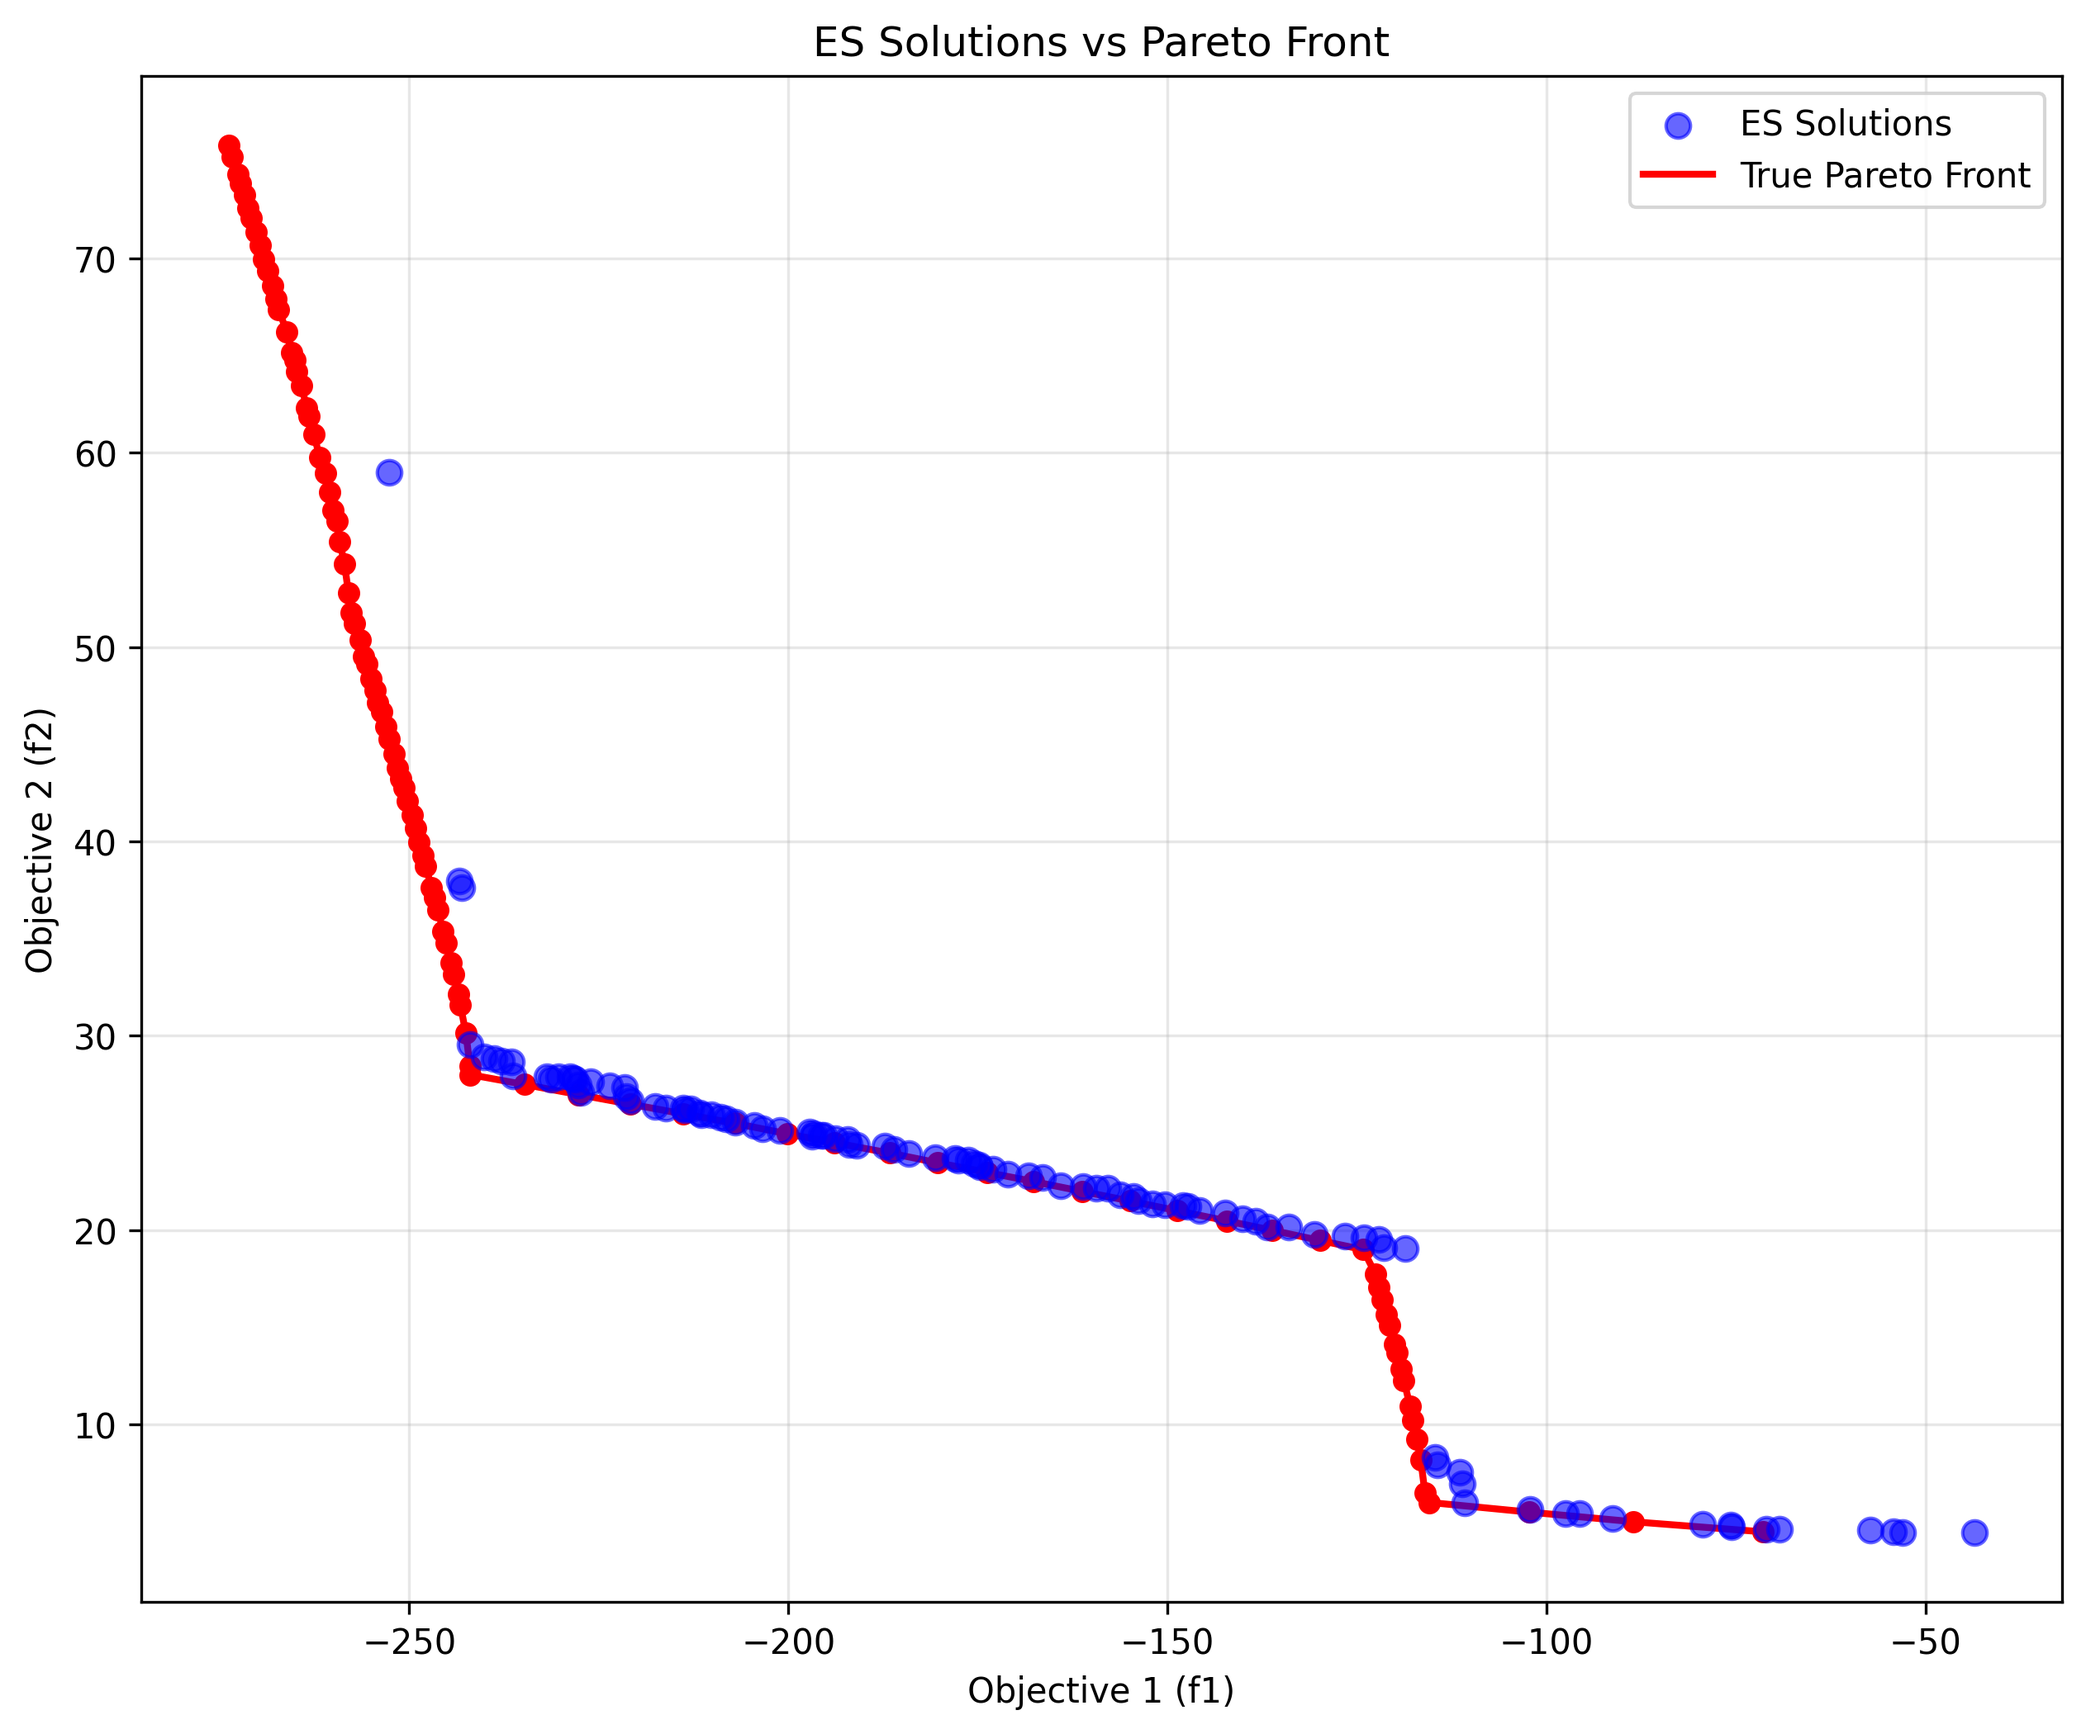
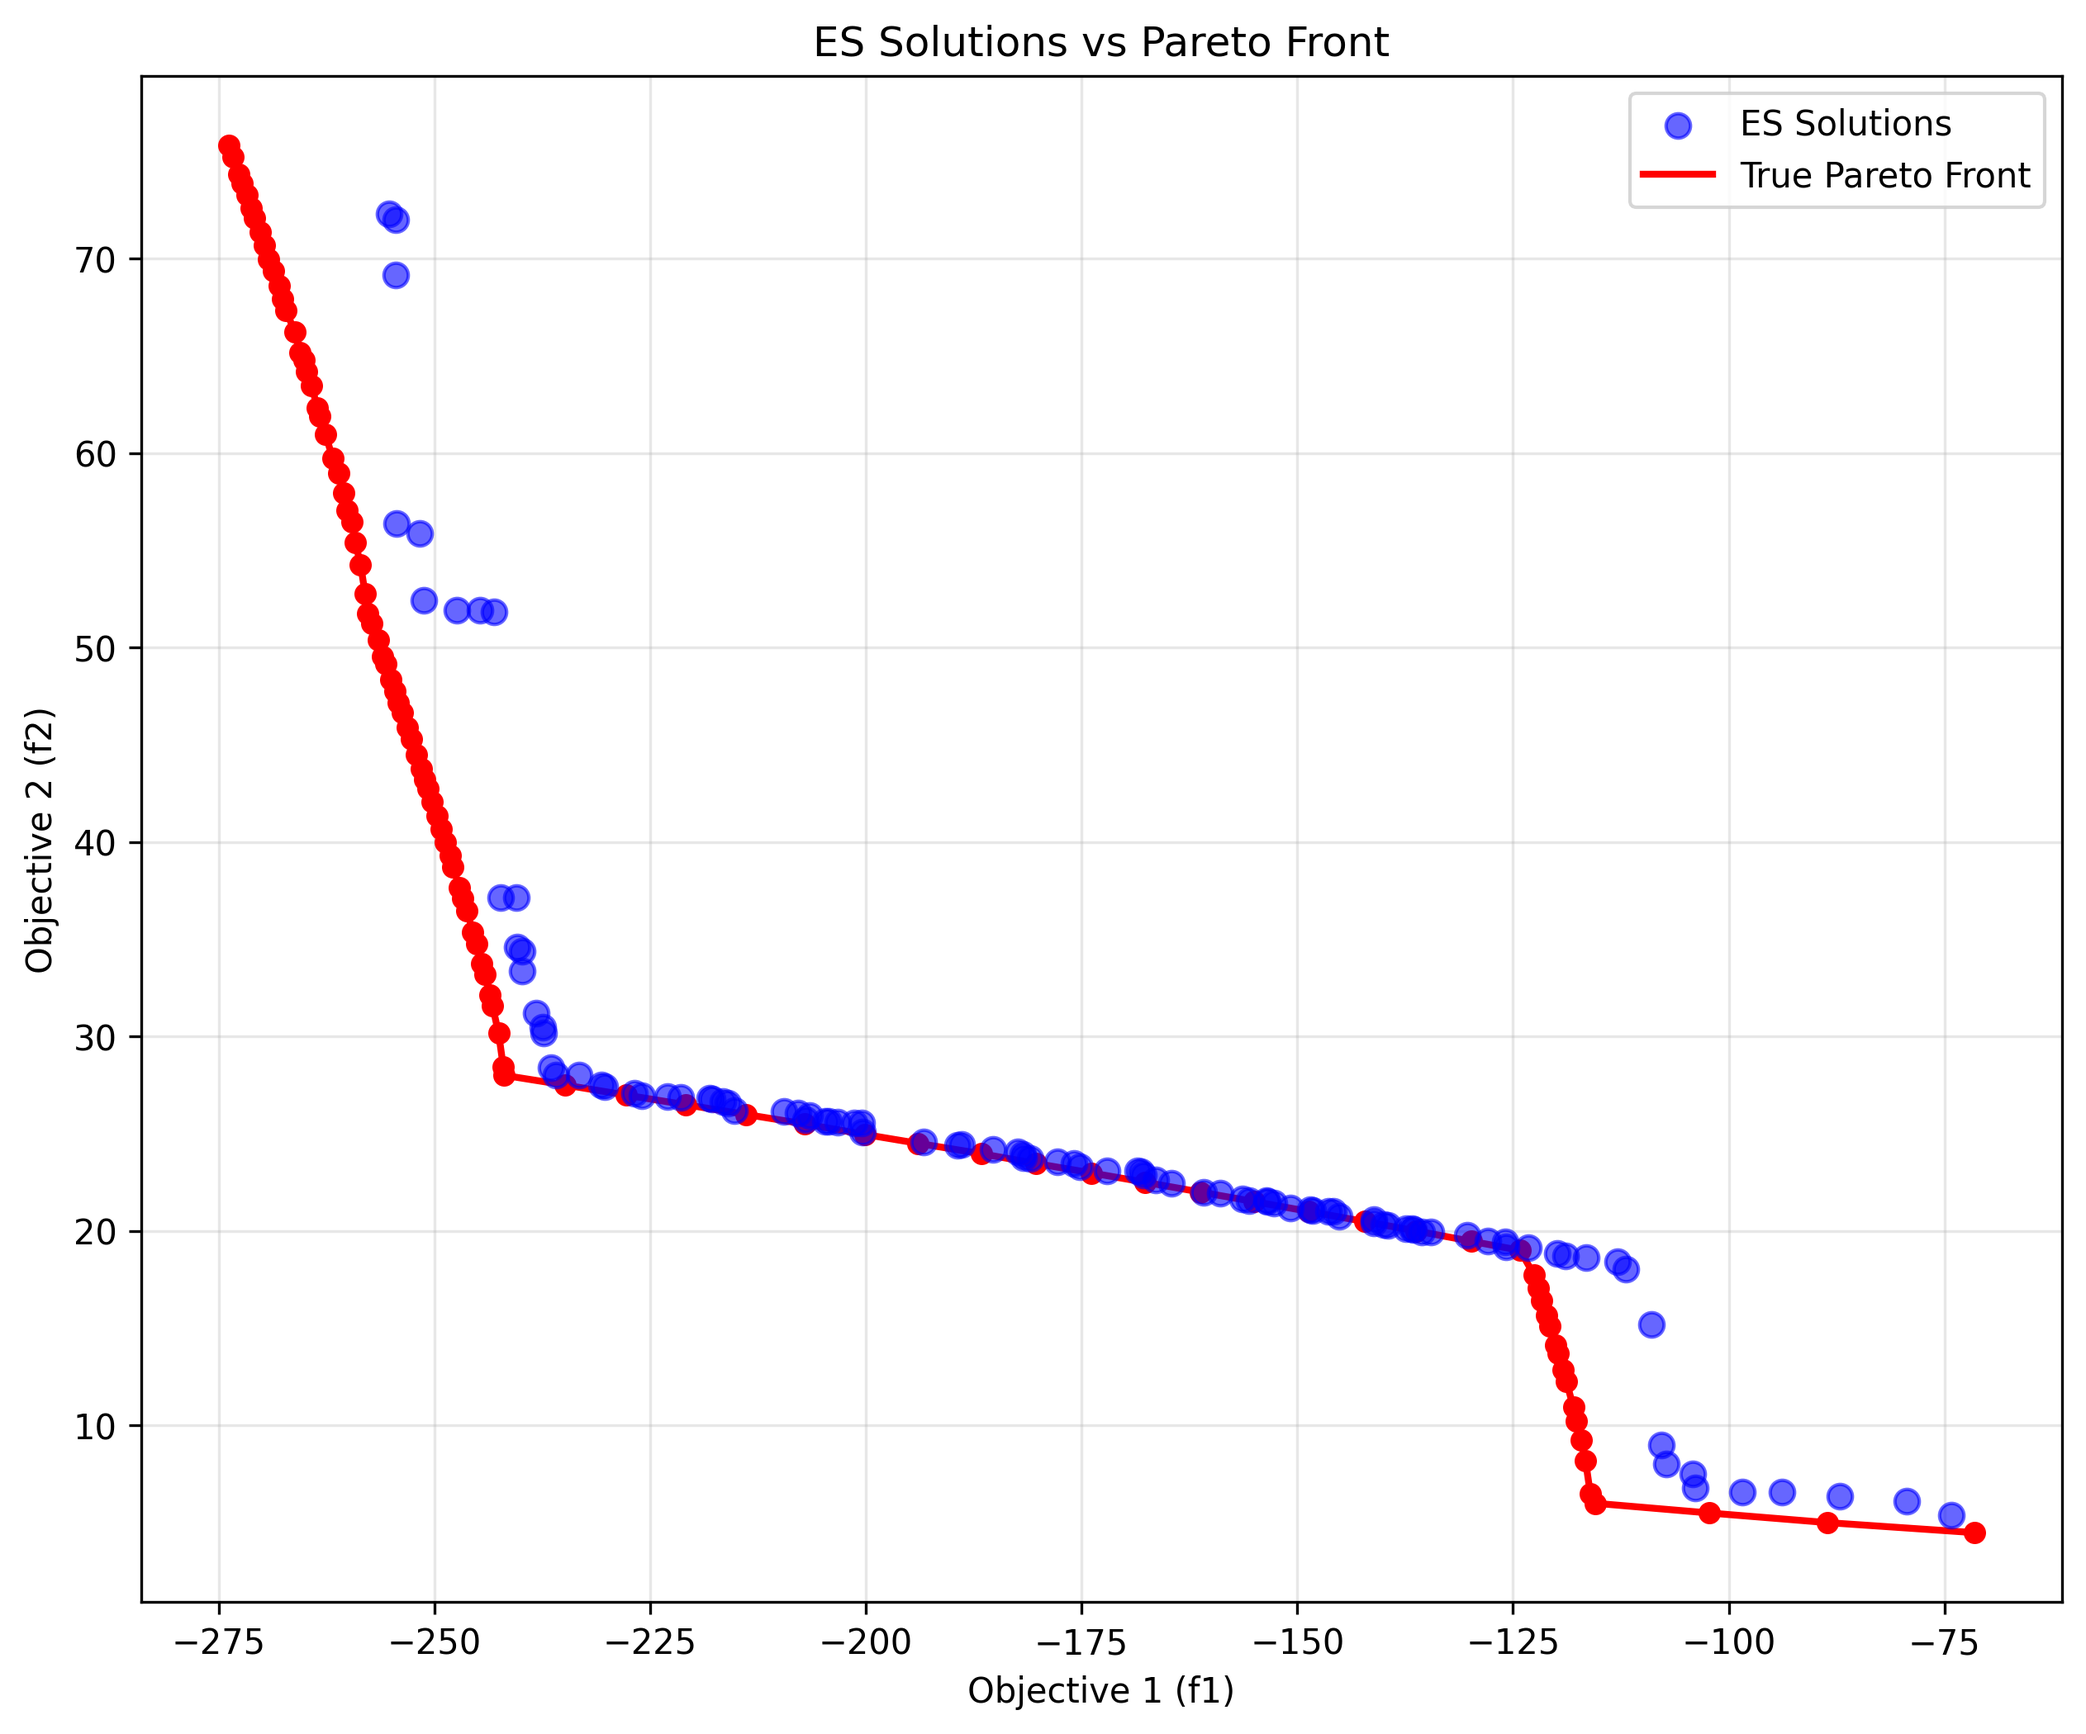
es

diff --git a/evolutionary_strategies.py b/evolutionary_strategies.py
@@ -4,7 +4,7 @@ from eva_core import evaluate, dominates, print_progress, filter_feasible_soluti
 
 def evolutionary_strategies(problem, pop_size=100, generations=300, verbose=False):
     """
-    Simple Evolutionary Strategies (μ+λ) with adaptive operators
+    Optimized Evolutionary Strategies (μ+λ) with adaptive operators
     
     Args:
         problem: Problem instance from pymoo
@@ -20,88 +20,158 @@ def evolutionary_strategies(problem, pop_size=100, generations=300, verbose=Fals
     mu = pop_size  # Parent population size
     lambda_size = pop_size  # Offspring population size
     
-    # Initialize population with strategy parameters (sigma for each variable)
-    population = []
-    sigma_pop = []
+    # Vectorized initialization
+    population = np.random.uniform(problem.xl, problem.xu, (mu, problem.n_var))
     
-    for n in range(mu):
-        # Individual
-        individual = np.random.uniform(problem.xl, problem.xu, problem.n_var)
-        population.append(individual)
-        
-        # Strategy parameters (mutation strengths) - one per variable
-        sigma = np.full(problem.n_var, 0.1 * (problem.xu - problem.xl))
-        sigma_pop.append(sigma)
+    # Initialize strategy parameters (sigma for each variable) - vectorized
+    sigma_range = 0.1 * (problem.xu - problem.xl)
+    sigma_pop = np.tile(sigma_range, (mu, 1))
     
-    # Evaluate initial population
-    fitness_pop = []
-    for i in range(mu):
-        fit = evaluate(problem, population[i])
-        fitness_pop.append(fit)
+    # Evaluate initial population - batch if possible
+    fitness_pop = [evaluate(problem, individual) for individual in population]
     
-    # Adaptive parameters
+    # Pre-compute adaptive parameters
     tau = 1.0 / np.sqrt(2 * np.sqrt(problem.n_var))  # Global learning rate
     tau_prime = 1.0 / np.sqrt(2 * problem.n_var)     # Local learning rate
+    search_center = (problem.xl + problem.xu) / 2
+    center_bias = 0.1
+    sigma_min = 1e-6 * (problem.xu - problem.xl)
     
     # Evolution loop
     for g in range(generations):
-        offspring = []
-        offspring_sigma = []
-        offspring_fitness = []
+        # Vectorized parent selection
+        parent_indices = np.random.randint(mu, size=lambda_size)
+        parents = population[parent_indices]
+        parent_sigmas = sigma_pop[parent_indices]
         
-        # Generate offspring
-        for _ in range(lambda_size):
-            # Select random parent
-            parent_idx = np.random.randint(mu)
-            parent = population[parent_idx].copy()
-            parent_sigma = sigma_pop[parent_idx].copy()
-            
-            # Adapt strategy parameters first (self-adaptation)
-            global_factor = np.exp(tau * np.random.normal())
-            local_factors = np.exp(tau_prime * np.random.normal(size=problem.n_var))
-            
-            # Update sigma with minimum threshold
-            new_sigma = parent_sigma * global_factor * local_factors
-            new_sigma = np.maximum(new_sigma, 1e-6 * (problem.xu - problem.xl))
-            
-            # Biased mutation - bias towards center of search space
-            center_bias = 0.1  # Bias strength
-            search_center = (problem.xl + problem.xu) / 2
-            bias_vector = center_bias * (search_center - parent) / (problem.xu - problem.xl)
-            
-            # Apply mutation with bias
-            mutation = np.random.normal(0, 1, problem.n_var) * new_sigma
-            offspring_individual = parent + mutation + bias_vector
-            
-            # Ensure bounds
-            offspring_individual = clip_to_bounds(offspring_individual, problem)
-            
-            # Evaluate offspring
-            offspring_fit = evaluate(problem, offspring_individual)
-            
-            offspring.append(offspring_individual)
-            offspring_sigma.append(new_sigma)
-            offspring_fitness.append(offspring_fit)
+        # Vectorized self-adaptation
+        global_factors = np.exp(tau * np.random.normal(size=lambda_size))
+        local_factors = np.exp(tau_prime * np.random.normal(size=(lambda_size, problem.n_var)))
         
-        # (μ+λ) selection: combine parents and offspring
-        combined_pop = population + offspring
-        combined_sigma = sigma_pop + offspring_sigma
+        # Update sigma with minimum threshold - vectorized
+        new_sigmas = parent_sigmas * global_factors[:, np.newaxis] * local_factors
+        new_sigmas = np.maximum(new_sigmas, sigma_min)
+        
+        # Vectorized biased mutation
+        bias_vectors = center_bias * (search_center - parents) / (problem.xu - problem.xl)
+        mutations = np.random.normal(0, 1, (lambda_size, problem.n_var)) * new_sigmas
+        offspring = parents + mutations + bias_vectors
+        
+        # Vectorized bounds clipping
+        offspring = np.clip(offspring, problem.xl, problem.xu)
+        
+        # Evaluate offspring (this is the bottleneck - can't vectorize easily)
+        offspring_fitness = [evaluate(problem, individual) for individual in offspring]
+        
+        # Combine populations - use numpy operations where possible
+        combined_pop = np.vstack([population, offspring])
+        combined_sigma = np.vstack([sigma_pop, new_sigmas])
         combined_fitness = fitness_pop + offspring_fitness
         
-        # Select best μ individuals using environmental selection
+        # Environmental selection
         selected_indices = environmental_selection(combined_fitness, mu)
         
-        # Update population
-        population = [combined_pop[i] for i in selected_indices]
-        sigma_pop = [combined_sigma[i] for i in selected_indices]
+        # Update population using advanced indexing
+        population = combined_pop[selected_indices]
+        sigma_pop = combined_sigma[selected_indices]
         fitness_pop = [combined_fitness[i] for i in selected_indices]
         
-        # Print progress
+        # Print progress (reduced frequency for speed)
         if verbose and (g + 1) % 100 == 0:
-            avg_sigma = np.mean([np.mean(s) for s in sigma_pop])
+            avg_sigma = np.mean(sigma_pop)
             extra_info = f"avg σ: {avg_sigma:.4f}"
             print_progress(g + 1, mu, fitness_pop, "ES", extra_info)
 
+    return population, fitness_pop
+
+
+def evolutionary_strategies_fast(problem, pop_size=50, generations=500, verbose=False):
+    """
+    Fast ES variant with simplified operations and (μ,λ) selection
+    
+    Args:
+        problem: Problem instance from pymoo
+        pop_size: Population size (μ)
+        generations: Number of generations
+        verbose: Print progress
+        
+    Returns:
+        population: Final population
+        fitness_pop: Final fitness values
+    """
+    
+    mu = pop_size  # Parent population size
+    lambda_size = pop_size * 2  # More offspring for better exploration
+    
+    # Vectorized initialization
+    population = np.random.uniform(problem.xl, problem.xu, (mu, problem.n_var))
+    
+    # Single global sigma for all variables (faster)
+    sigma = 0.1 * np.mean(problem.xu - problem.xl)
+    sigma_min = 1e-6 * np.mean(problem.xu - problem.xl)
+    
+    # Evaluate initial population
+    fitness_pop = [evaluate(problem, individual) for individual in population]
+    
+    # Pre-compute constants
+    search_center = (problem.xl + problem.xu) / 2
+    center_bias = 0.05  # Reduced bias for speed
+    
+    # Evolution loop
+    for g in range(generations):
+        # Generate all offspring at once - vectorized
+        parent_indices = np.random.randint(mu, size=lambda_size)
+        parents = population[parent_indices]
+        
+        # Simple sigma adaptation (1/5th rule approximation)
+        if g > 0 and g % 20 == 0:
+            success_rate = len([f for f in fitness_pop if f is not None]) / mu
+            if success_rate > 0.2:
+                sigma *= 1.1
+            else:
+                sigma *= 0.9
+            sigma = max(sigma, sigma_min)
+        
+        # Vectorized mutation with bias
+        bias_vectors = center_bias * (search_center - parents) / (problem.xu - problem.xl)
+        mutations = np.random.normal(0, sigma, (lambda_size, problem.n_var))
+        offspring = np.clip(parents + mutations + bias_vectors, problem.xl, problem.xu)
+        
+        # Evaluate offspring
+        offspring_fitness = [evaluate(problem, individual) for individual in offspring]
+        
+        # (μ,λ) selection - only from offspring (faster than μ+λ)
+        feasible_indices = [i for i, f in enumerate(offspring_fitness) if f is not None]
+        
+        if len(feasible_indices) >= mu:
+            # Enough feasible solutions - select best
+            feasible_fitness = [offspring_fitness[i] for i in feasible_indices]
+            feasible_offspring = offspring[feasible_indices]
+            
+            # Simple selection by first objective (faster than full Pareto ranking)
+            if len(feasible_fitness[0]) == 1:
+                # Single objective
+                sorted_pairs = sorted(zip(feasible_offspring, feasible_fitness), 
+                                    key=lambda x: x[1][0])
+            else:
+                # Multi-objective - use sum of objectives as approximation
+                sorted_pairs = sorted(zip(feasible_offspring, feasible_fitness), 
+                                    key=lambda x: np.sum(x[1]))
+            
+            population = np.array([pair[0] for pair in sorted_pairs[:mu]])
+            fitness_pop = [pair[1] for pair in sorted_pairs[:mu]]
+        else:
+            # Not enough feasible - use environmental selection from all
+            combined_fitness = offspring_fitness
+            selected_indices = environmental_selection(combined_fitness, mu)
+            population = offspring[selected_indices]
+            fitness_pop = [combined_fitness[i] for i in selected_indices]
+        
+        # Print progress (less frequent)
+        if verbose and (g + 1) % 100 == 0:
+            extra_info = f"σ: {sigma:.4f}"
+            print_progress(g + 1, mu, fitness_pop, "ES-Fast", extra_info)
+    
     return population, fitness_pop
 
 

diff --git a/main.py b/main.py
@@ -4,7 +4,7 @@ import numpy as np
 import sys
 import matplotlib.pyplot as plt
 from differential_evolution import differential_evolution
-from evolutionary_strategies import evolutionary_strategies
+from evolutionary_strategies import evolutionary_strategies, evolutionary_strategies_fast
 from eva_core import filter_feasible_solutions
 
 # (https://pymoo.org/problems/multi/bnh.html)
@@ -15,6 +15,8 @@ from eva_core import filter_feasible_solutions
 # py .\main.py dascmop1 de true
 # py .\main.py bnh es true         (Evolutionary Strategies)
 # py .\main.py dascmop1 es true
+# py .\main.py bnh esf true        (Fast Evolutionary Strategies)
+# py .\main.py dascmop1 esf true
 
 def main(problem_name, algorithm, verbose):
     try:
@@ -31,8 +33,10 @@ def main(problem_name, algorithm, verbose):
         population, fitness_pop = differential_evolution(problem, verbose=verbose)
     elif algorithm.lower() == 'es':
         population, fitness_pop = evolutionary_strategies(problem, verbose=verbose)
+    elif algorithm.lower() == 'esf':
+        population, fitness_pop = evolutionary_strategies_fast(problem, verbose=verbose)
     else:
-        raise ValueError(f"Unknown algorithm: {algorithm}. Available: de, es")
+        raise ValueError(f"Unknown algorithm: {algorithm}. Available: de, es, esf")
 
     # Filter out infeasible solutions for plotting
     feasible_solutions, feasible_objectives = filter_feasible_solutions(population, fitness_pop)
@@ -93,7 +97,8 @@ if __name__ == "__main__":
         print("Usage: python main.py <problem_name> <algorithm> [verbose]")
         print("Example: python main.py bnh de true")
         print("         python main.py dascmop1 es true")
-        print("Available algorithms: de, es")
+        print("         python main.py bnh esf true")
+        print("Available algorithms: de, es, esf")
         sys.exit(1)
         
     problem_name = sys.argv[1]
